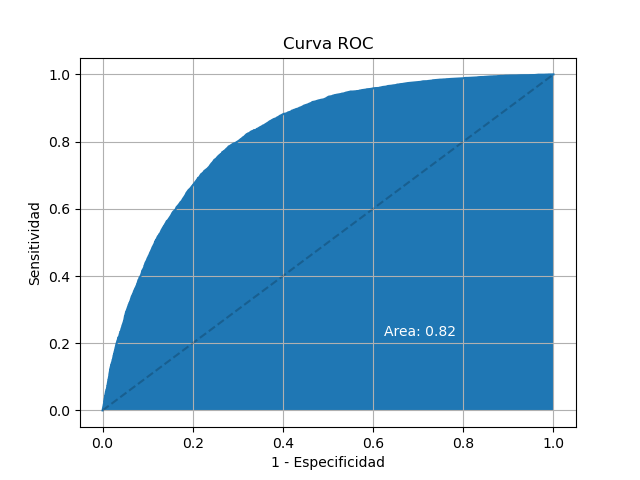
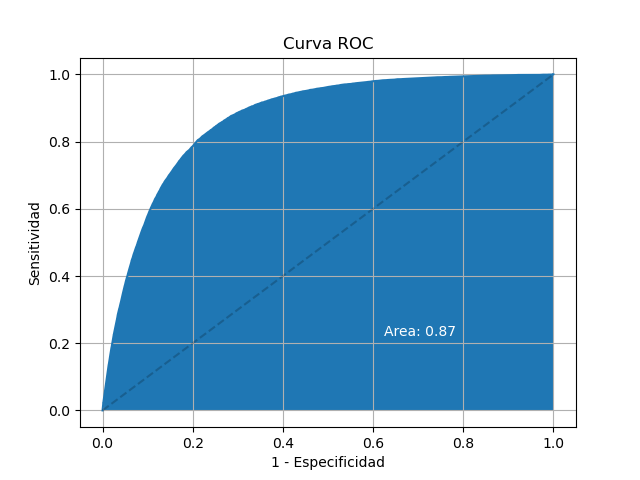
Update calculator with more data (500k cases)

Changed region(s): [[0.1562, 0.1562, 0.75, 0.8125]]

diff --git a/covid_calc.html b/covid_calc.html
@@ -187,7 +187,7 @@ function unrise(x){ x.style.top = "-10px";}
 function calcular() {
   var text = document.getElementById("proba");
   var edad, sexo, diab, epoc, asma, inmu, hipe, card, obes, rena, taba, otra;
-  var edad = (document.getElementById("edad").value - 46.60585729499) / 16.07280097938;
+  var edad = (document.getElementById("edad").value - 45.0290376) / 16.58259863;
   var hombre = document.getElementById("hombre").checked;
   var mujer = document.getElementById("mujer").checked;
 
@@ -200,73 +200,73 @@ function calcular() {
 	  return;
   }
   if (hombre && !mujer){
-    sexo = 0.88099795;
+    sexo = 0.94917255;
   } else{
-    sexo = -1.13507642;
+    sexo = -1.05354921;
   }
   var checkBox = document.getElementById("diabetes");
   if (checkBox.checked == true){
-     diab = 2.15977418;
+     diab = 2.30430755;
   } else {
-     diab = -0.46301137;
+     diab = -0.43396985;
   }
   var checkBox = document.getElementById("EPOC");
   if (checkBox.checked == true){
-     epoc = 7.02924378;
+     epoc = 8.03257671;
   } else {
-     epoc = -0.14226281;
+     epoc = -0.12449305;
   }
   var checkBox = document.getElementById("asma");
   if (checkBox.checked == true){
-     asma = 5.83862144;
+     asma = 6.07495992;
   } else {
-     asma = -0.17127331;
+     asma = -0.16461014;
   }
   var checkBox = document.getElementById("inmuno");
   if (checkBox.checked == true){
-     inmu = 8.01424364;
+     inmu = 9.34577052;
   } else {
-     inmu = -0.12477784;
+     inmu = -0.10700027;
   }
   var checkBox = document.getElementById("hipert");
   if (checkBox.checked == true){
-     hipe = 1.92779325;
+     hipe = 2.0156196;
   } else {
-     hipe = -0.51872782;
+     hipe = -0.49612536;
   }
   var checkBox = document.getElementById("otra");
   if (checkBox.checked == true){
-     otra = 5.50440265;
+     otra = 6.28279753;
   } else {
-     otra = -0.18167276;
+     otra = -0.15916477;
   }
   var checkBox = document.getElementById("cardio");
   if (checkBox.checked == true){
-     card = 6.10298834;
+     card = 6.90321691;
   } else {
-     card = -0.16385416;
+     card = -0.14486;
   }
   var checkBox = document.getElementById("obesidad");
   if (checkBox.checked == true){
-     obes = 1.96766395;
+     obes = 2.09730914;
   } else {
-     obes = -0.50821686;
+     obes = -0.47680143;
   }
   var checkBox = document.getElementById("renal");
   if (checkBox.checked == true){
-     rena = 6.40652613;
+     rena = 7.09244178;
   } else {
-     rena = -0.15609083;
+     rena = -0.14099517;
   }
   var checkBox = document.getElementById("tabaco");
   if (checkBox.checked == true){
-     taba = 3.35176292;
+     taba = 3.59102157;
   } else {
-     taba = -0.29835046;
+     taba = -0.27847229;
   }
-  var otro = -0.67274632;
+  var otro = -0.87214516;
 
-  var z = -2.36727084 + sexo * 0.25622336 + edad * 0.9837722 + diab * 0.18759876 + epoc * 0.02327441 + asma * -0.02342623 + inmu * 0.04982622 + hipe * 0.09547078 + otra * 0.03706 + card * -0.00738306 + obes * 0.15058704 + rena * 0.11931988 + taba * -0.00435704 + otro * -0.52840053;
+  var z = -2.8189819 + sexo * 0.27474152 + edad * 1.09075551 + diab * 0.18222986 + epoc * 0.01671705 + asma * -0.01691838 + inmu * 0.04920536 + hipe * 0.08942371 + otra * 0.07775827 + card * -0.00462491 + obes * 0.15581292 + rena * 0.11400991 + taba * -0.0091178 + otro * -0.72069926;
   var proba = 100 / (1 + Math.exp(-z));
   text.innerHTML = proba.toFixed(2) + "%";
 }
